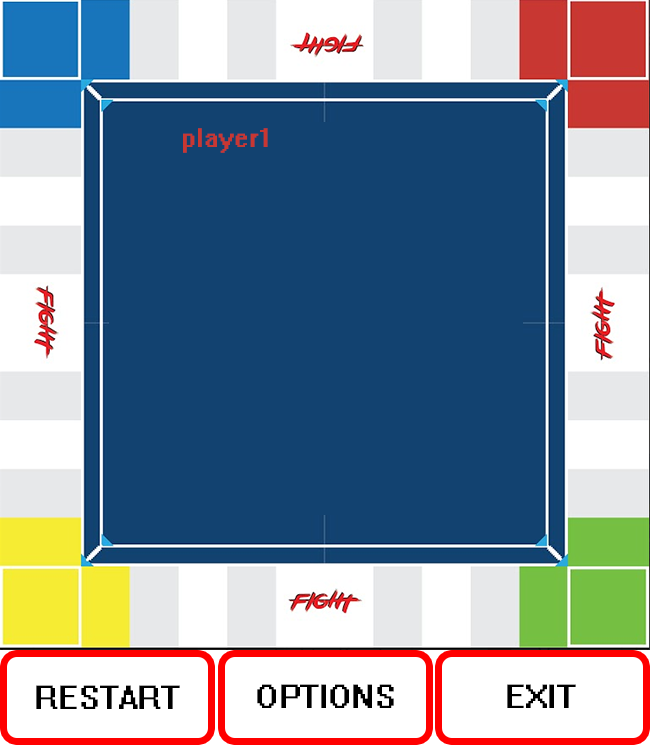
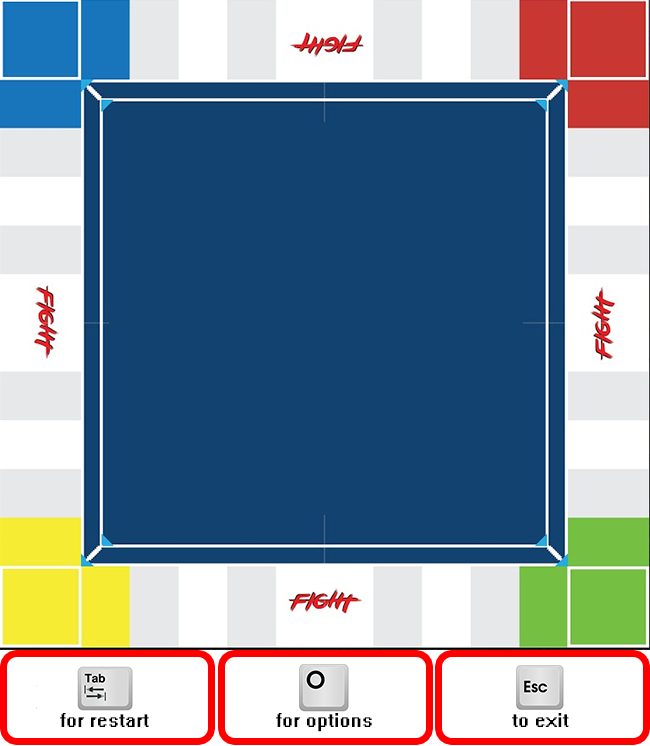
options op alle paginas werkend
ook ga je nu met resume naar juiste pagina
en kan je game al in begin laden of tijdens het spel

diff --git a/PythonApplication1alex and jesse/PythonApplication1/Game.py b/PythonApplication1alex and jesse/PythonApplication1/Game.py
@@ -15,6 +15,7 @@ chooseChars = []
 firstround = True
 save_game = False
 load_old_game = False
+last_page = 0
 #playerList = [player1,player2,player3,player4]
 gameDisplay = pygame.display.set_mode((width,height))
 pygame.display.set_caption('Survivor')
@@ -108,7 +109,7 @@ def screen_update(screen,rect):
 def sound_play(punch_sound):
     pygame.mixer.music.play(0)
 
-def StartScreen(screenlist, rectlist, screen_index, menu_index, crashed, punch_sound):
+def StartScreen(screenlist, rectlist, screen_index, menu_index, crashed, punch_sound,last_page):
 
     start = x, y = 70, 150 #coordinates glove --> start
     rules = x, y = 70, 250 #coordinates glove --> rules
@@ -143,18 +144,19 @@ def StartScreen(screenlist, rectlist, screen_index, menu_index, crashed, punch_s
                 elif menu_index == 1 and event.key == pygame.K_SPACE:
                     screen_index = 4
                     menu_index = 0
+                    last_page = 0
                 elif menu_index == 0 and event.key == pygame.K_SPACE:
                     screen_index = 2
     b = 0
-    return screen, rect, button, screen_index, menu_index, crashed, b
+    return screen, rect, button, screen_index, menu_index, crashed, b,last_page
 
 
 while not crashed:
     
     if screen_index == 0:#start
 
-        screen, rect, button, screen_index, menu_index, crashed, b = \
-        StartScreen(screenlist, rectlist, screen_index, menu_index, crashed, punch_sound)
+        screen, rect, button, screen_index, menu_index, crashed, b,last_page = \
+        StartScreen(screenlist, rectlist, screen_index, menu_index, crashed, punch_sound,last_page)
         screen_update(screen, rect)
         glove_update(button, screen_index)                         #hier word button meegegeven aan glove_update
  
@@ -167,15 +169,15 @@ while not crashed:
 
     elif screen_index == 4:
 
-        screen, rect, crashed, button, menu_index, screen_index, b = \
-        Options(screenlist, rectlist,crashed, menu_index, screen_index,character_index,punch_sound)
+        screen, rect, crashed, button, menu_index, screen_index, b,save_game,load_old_game,last_page = \
+        Options(screenlist, rectlist,crashed, menu_index, screen_index,character_index,punch_sound,b,save_game,load_old_game,last_page)
         screen_update(screen, rect)
         glove_update(button, screen_index)
 
     elif screen_index == 2:#character
 
-        screen, rect ,crashed, button, menu_index, screen_index, b, char_button,character_index,chooseChars = \
-        PlayerScreen(chooseChars,screenlist, rectlist, crashed, menu_index, screen_index,character_index,punch_sound)
+        screen, rect ,crashed, button, menu_index, screen_index, b, char_button,character_index,chooseChars,last_page = \
+        PlayerScreen(chooseChars,screenlist, rectlist, crashed, menu_index, screen_index,character_index,punch_sound,last_page)
         screen_update(screen, rect)
         glove_update(button, screen_index)
         character_glove(char_button)
@@ -193,8 +195,8 @@ while not crashed:
 
     elif screen_index == 3:
         #hier moet Gameboard() komen
-        load_old_game,save_game,firstround,chooseChars,roll,p,screenlist, rectlist, crashed, menu_index, screen_index = \
-        BoardScreen(firstround,chooseChars,roll, p,screenlist, rectlist, crashed, menu_index, screen_index)
+        load_old_game,save_game,firstround,chooseChars,roll,p,screenlist, rectlist, crashed, menu_index, screen_index,last_page = \
+        BoardScreen(firstround,chooseChars,roll, p,screenlist, rectlist, crashed, menu_index, screen_index,last_page)
         size = width, height = 650, 746
         gameDisplay = pygame.display.set_mode(size)
         gameDisplay.blit(pygame.image.load("images/speelveld.png"),(pygame.image.load("images/speelveld.png").get_rect()))    

diff --git a/PythonApplication1alex and jesse/PythonApplication1/Options.py b/PythonApplication1alex and jesse/PythonApplication1/Options.py
@@ -2,7 +2,7 @@ import pygame
 def sound_play(punch_sound):
     pygame.mixer.music.play(0)
 
-def Options(screenlist, rectlist,crashed, menu_index, screen_index,character_index,punch_sound):
+def Options(screenlist, rectlist,crashed, menu_index, screen_index,character_index,punch_sound,b,save_game,load_old_game,last_page):
 
 
     resume = x, y = 25, 110 #coordinates glove --> resume
@@ -31,12 +31,17 @@ def Options(screenlist, rectlist,crashed, menu_index, screen_index,character_ind
                 menu_index += 1
 
             if menu_index == 0 and event.key == pygame.K_SPACE:
-                screen_index = 3
+                if last_page == 0:
+                    screen_index = 0
+                if last_page == 2:
+                    screen_index = 2
+                if last_page == 3:
+                    screen_index = 3
             if menu_index == 1 and event.key == pygame.K_SPACE:
-                screen_index = 4
+                screen_index = 5
                 save_game = True
             if menu_index == 2 and event.key == pygame.K_SPACE:
-                screen_index = 4
+                screen_index = 5
                 load_old_game = True
             if menu_index == 3 and event.key == pygame.K_SPACE:
                 screen_index = 1
@@ -47,7 +52,7 @@ def Options(screenlist, rectlist,crashed, menu_index, screen_index,character_ind
                 
 
     b = 3
-    return screen, rect, crashed, button, menu_index, screen_index, b
+    return screen, rect, crashed, button, menu_index, screen_index, b,save_game,load_old_game,last_page
 
 def RulesScreen(screenlist, rectlist, screen_index, menu_index, crashed, b):#b = ref van backspace screen
         

diff --git a/PythonApplication1alex and jesse/PythonApplication1/Gameboard.py b/PythonApplication1alex and jesse/PythonApplication1/Gameboard.py
@@ -38,7 +38,7 @@ navigate = [(20,20),(80,20),(130,20),(180,20),(230,20),(300,20),(375,20),(425,20
 p = 0
 
 #gameboard
-def BoardScreen(firstround, chooseChars,roll,p,screenlist, rectlist, crashed, menu_index, screen_index):   
+def BoardScreen(firstround, chooseChars,roll,p,screenlist, rectlist, crashed, menu_index, screen_index,last_page):   
     save_game = False
     load_old_game = False
     if firstround:
@@ -69,12 +69,17 @@ def BoardScreen(firstround, chooseChars,roll,p,screenlist, rectlist, crashed, me
                 chooseChars[p%4].savePosition = tile
                 p += 1
             elif event.key == pygame.K_s:
-                screen_index = 4
+                screen_index = 5
                 save_game = True
             elif event.key == pygame.K_l:
-                screen_index = 4
+                screen_index = 5
                 load_old_game = True
-                
-    
+            elif event.key == pygame.K_ESCAPE:
+                crashed = True
+            elif event.key == pygame.K_o:
+                screen_index = 4
+                last_page = 3
+            elif event.key == pygame.K_TAP:
+                screen_index = 2
 
-    return load_old_game,save_game,firstround,chooseChars,roll,p,screenlist, rectlist, crashed, menu_index, screen_index
+    return load_old_game,save_game,firstround,chooseChars,roll,p,screenlist, rectlist, crashed, menu_index, screen_index,last_page

diff --git a/PythonApplication1alex and jesse/PythonApplication1/Playerscreen.py b/PythonApplication1alex and jesse/PythonApplication1/Playerscreen.py
@@ -9,7 +9,7 @@ from Character import *
 def sound_play(punch_sound):
     pygame.mixer.music.play(0)
 
-def PlayerScreen(chooseChars,screenlist, rectlist,crashed, menu_index, screen_index,character_index,punch_sound):
+def PlayerScreen(chooseChars,screenlist, rectlist,crashed, menu_index, screen_index,character_index,punch_sound,last_page):
     start = x, y = 0, 650
     rules = x, y = 225, 650
     exit = x, y = 450, 650
@@ -50,6 +50,7 @@ def PlayerScreen(chooseChars,screenlist, rectlist,crashed, menu_index, screen_in
             elif menu_index == 1 and event.key == pygame.K_SPACE:
                 screen_index = 4
                 menu_index = 0
+                last_page = 2
             elif menu_index == 0 and event.key == pygame.K_SPACE and len(chooseChars) == 4:
                 screen_index = 3
  
@@ -115,4 +116,4 @@ def PlayerScreen(chooseChars,screenlist, rectlist,crashed, menu_index, screen_in
     size = width, height = 750, 780
     gameDisplay = pygame.display.set_mode(size)
 
-    return screen, rect, crashed, button, menu_index, screen_index, b, char_button, character_index,chooseChars
+    return screen, rect, crashed, button, menu_index, screen_index, b, char_button, character_index,chooseChars,last_page
